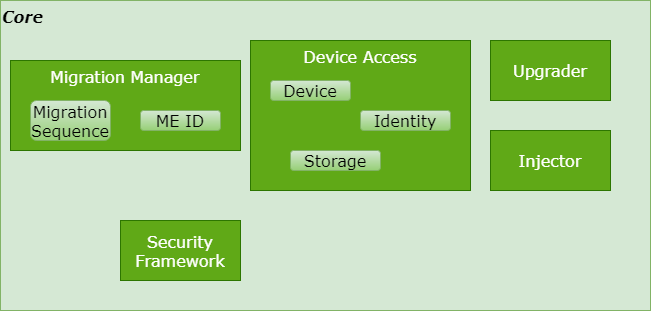
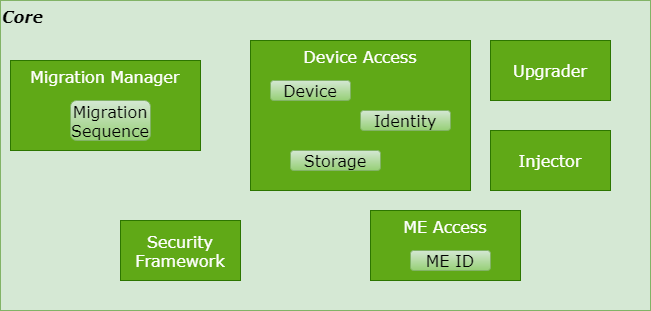
[doc] Updated doc regarding the new me_access functional block

Changed region(s): [[0.0307, 0.1736, 0.3687, 0.492], [0.553, 0.6656, 0.7988, 0.926]]

diff --git a/doc/source/architecture/agency/core/migration_manager.rst b/doc/source/architecture/agency/core/migration_manager.rst
@@ -40,27 +40,5 @@ The identifiers are:
   and thus regarding MEs, *slotID* is identical to *domID*.
 
 
-ME ID
-^^^^^
-
-The Migration Manager provides an API that can be used to retrieve the following information related to
-each present mobile entity in the current smart object:
-
-* SPID
-* Short name (like "SOO.blind")
-* Short description (a maximum 1024-byte free text)
-
-The following fonction can be used either in the kernel or in the user space via
-the ``AGENCY_IOCTL_GET_ME_ID_ARRAY`` ioctl syscall.
-
-.. c:function:: 
-   void get_ME_id_array(ME_id_t *ME_id_array)
-
-.. note::
-   The caller must allocate an array of <ME_id_t> elements. The number of elements
-   corresponds to ``MAX_ME_DOMAINS``.
-   
-   
-
 
  

diff --git a/doc/source/architecture/agency/core/core.rst b/doc/source/architecture/agency/core/core.rst
@@ -7,6 +7,7 @@ Core subsystem
    
    migration_manager
    device_access
+   me_access
    
 The general architecture of the agency core subsystem is depicted on the figure below.
 It shows the various functional blocks of this subsystem.
